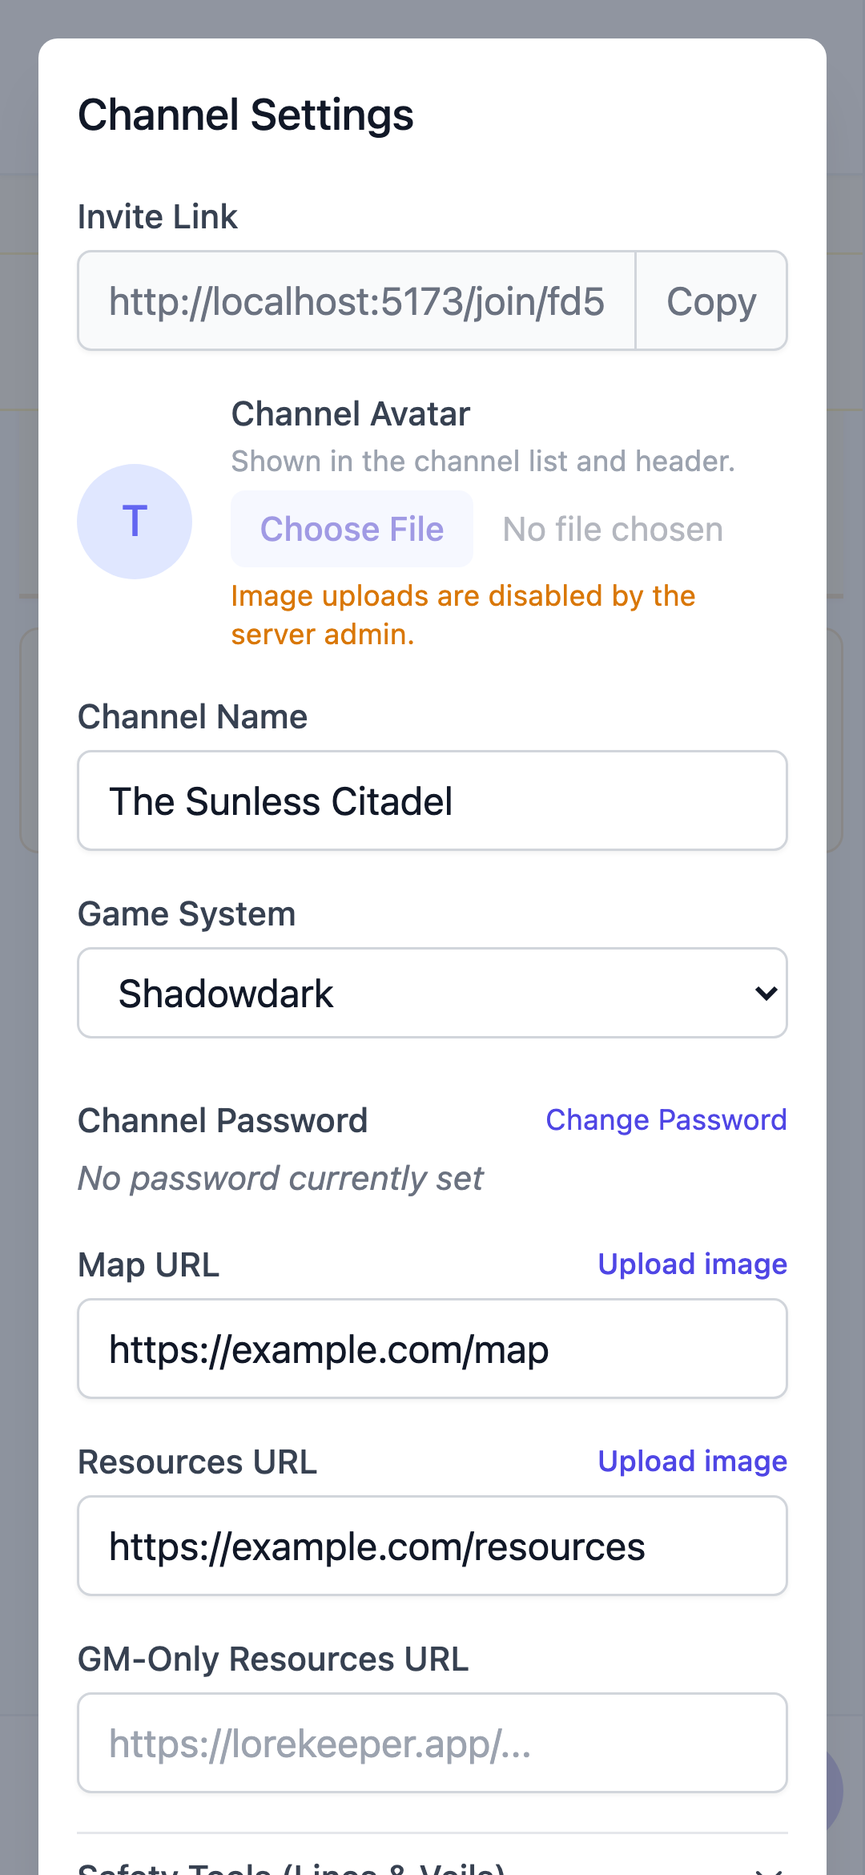
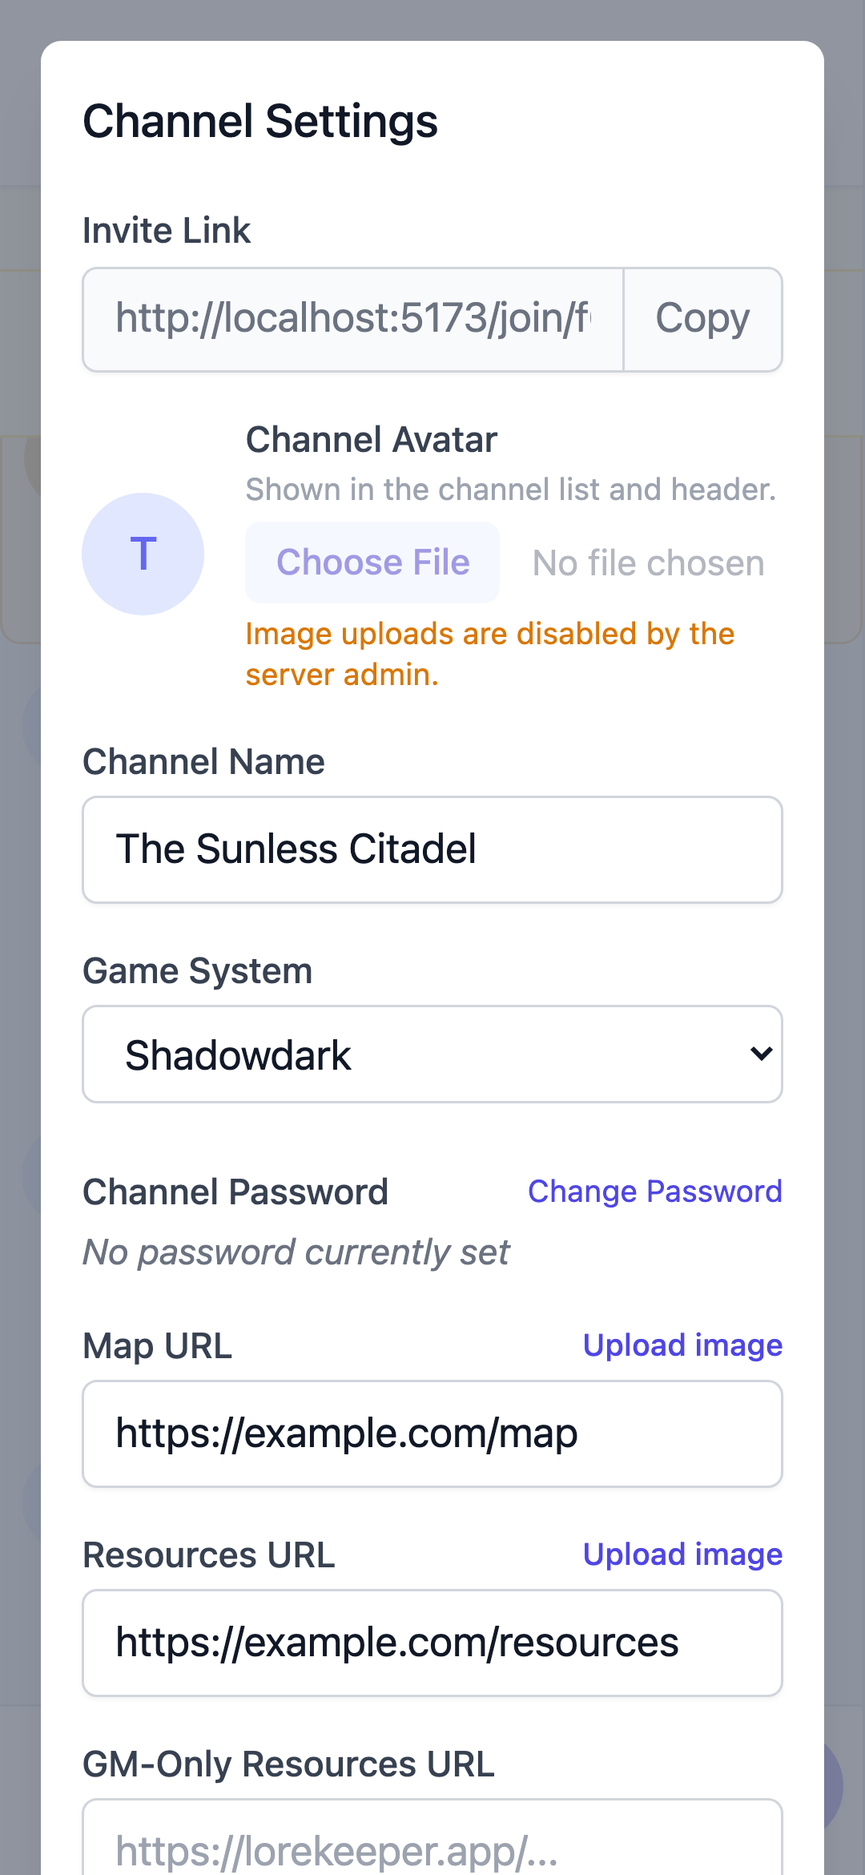
feat(#523): legible default text, remove text-size setting (#525)
* feat(#523): legible default text, remove text-size setting

* docs(#523): add component docstrings for review coverage

diff --git a/src/features/chat/MessageItem.tsx b/src/features/chat/MessageItem.tsx
@@ -167,6 +167,11 @@ function CheckSheet({ draft, gameSystem, onModifierChange, onAdvDisChange, onEdi
   )
 }
 
+/**
+ * One chat row: avatar, sender name, timestamp, markdown body, reactions,
+ * and hover/tap actions. Renders regular, scene, NPC, dice-roll, and system
+ * variants. Memoized — re-renders only when this message's own props change.
+ */
 export const MessageItem = memo(function MessageItem({ message, currentUserId, isGM, onEdit, onDelete, onRollDice, isHighlighted, members, gameSystem = 'none', reactions, onToggleReaction, onReply, onJumpToMessage, onRetry, onRemovePending, onEditCharacter, onReport }: MessageItemProps) {
   const [isEditing, setIsEditing] = useState(false)
   const [editContent, setEditContent] = useState(message.content)
@@ -690,17 +695,17 @@ img: ({ node: _node, src, alt, ...props }: React.ComponentProps<'img'> & { node?
               {senderName} rolled dice
             </span>
             {message.roll_dc != null && (
-              <span className="inline-flex items-center px-2 py-0.5 rounded-full text-[10px] font-bold uppercase bg-amber-100 dark:bg-amber-900 text-amber-800 dark:text-amber-300">
+              <span className="inline-flex items-center px-2 py-0.5 rounded-full text-[0.625rem] font-bold uppercase bg-amber-100 dark:bg-amber-900 text-amber-800 dark:text-amber-300">
                 DC {message.roll_dc}
               </span>
             )}
             {typeof message.roll_success === 'boolean' && (
-              <span className={`inline-flex items-center px-2 py-0.5 rounded-full text-[10px] font-bold uppercase ${isSuccess ? 'bg-green-100 dark:bg-green-900 text-green-800 dark:text-green-300' : 'bg-red-100 dark:bg-red-900 text-red-800 dark:text-red-300'}`}>
+              <span className={`inline-flex items-center px-2 py-0.5 rounded-full text-[0.625rem] font-bold uppercase ${isSuccess ? 'bg-green-100 dark:bg-green-900 text-green-800 dark:text-green-300' : 'bg-red-100 dark:bg-red-900 text-red-800 dark:text-red-300'}`}>
                 {isSuccess ? 'Success' : 'Failure'}
               </span>
             )}
           </div>
-          <div className="text-surface-900 dark:text-surface-100 text-sm">
+          <div className="text-surface-900 dark:text-surface-100 text-base">
             <Markdown>{message.content}</Markdown>
           </div>
           {errorOverlay}
@@ -710,7 +715,7 @@ img: ({ node: _node, src, alt, ...props }: React.ComponentProps<'img'> & { node?
   }
 
   return (
-    <div ref={itemRef} className={`relative group flex items-start space-x-3 my-1 px-4 py-2 transition-all duration-1000 ${isWhisper ? 'bg-purple-50 dark:bg-purple-950 rounded-lg border border-purple-100 dark:border-purple-900' : ''} ${isNpc ? 'bg-parchment dark:bg-parchment-dark rounded-lg border border-parchment-border dark:border-parchment-border-dark' : ''} ${isHighlighted ? 'bg-yellow-50 dark:bg-yellow-950 ring-2 ring-yellow-400 rounded-lg' : ''} ${message.pending ? 'opacity-60' : ''}`}>
+    <div ref={itemRef} className={`relative group flex items-start space-x-3 my-1 px-2 py-2 sm:px-3 transition-all duration-1000 ${isWhisper ? 'bg-purple-50 dark:bg-purple-950 rounded-lg border border-purple-100 dark:border-purple-900' : ''} ${isNpc ? 'bg-parchment dark:bg-parchment-dark rounded-lg border border-parchment-border dark:border-parchment-border-dark' : ''} ${isHighlighted ? 'bg-yellow-50 dark:bg-yellow-950 ring-2 ring-yellow-400 rounded-lg' : ''} ${message.pending ? 'opacity-60' : ''}`}>
       {pendingOverlay}
       <div className="flex-shrink-0">
         {isNpc ? (
@@ -750,7 +755,7 @@ img: ({ node: _node, src, alt, ...props }: React.ComponentProps<'img'> & { node?
 
         {replyBlock}
 
-        <div className={`mt-1 text-sm text-surface-800 dark:text-surface-200 prose prose-sm prose-indigo dark:prose-invert max-w-none break-words ${isNpc ? 'font-serif text-parchment-ink dark:text-parchment-ink-dark prose-p:text-parchment-ink dark:prose-p:text-parchment-ink-dark prose-a:text-parchment-ink-strong dark:prose-a:text-parchment-ink-strong-dark prose-strong:text-parchment-ink-strong dark:prose-strong:text-parchment-ink-strong-dark' : ''}`}>
+        <div className={`mt-1 text-base text-surface-800 dark:text-surface-200 prose prose-sm prose-indigo dark:prose-invert max-w-none break-words ${isNpc ? 'font-serif text-parchment-ink dark:text-parchment-ink-dark prose-p:text-parchment-ink dark:prose-p:text-parchment-ink-dark prose-a:text-parchment-ink-strong dark:prose-a:text-parchment-ink-strong-dark prose-strong:text-parchment-ink-strong dark:prose-strong:text-parchment-ink-strong-dark' : ''}`}>
           {message.is_deleted ? (
             <span className="text-surface-400 dark:text-surface-400 italic">This message was deleted.</span>
           ) : isEditing ? (

diff --git a/src/features/auth/ProfileSettings.tsx b/src/features/auth/ProfileSettings.tsx
@@ -7,20 +7,17 @@ import { useAuth } from './useAuth'
 import { deleteAccount, updateDisplayName, updateEmailOptIn } from './authApi'
 import { usePushNotifications } from '../notifications/usePushNotifications'
 import { useToast } from '../../contexts/ToastContext'
-import { useTextSize, TEXT_SIZE_NORMAL, TEXT_SIZE_LARGE, TEXT_SIZE_XLARGE, type TextSize } from '../../hooks/useTextSize'
 import { buildUserDataExport, downloadJson } from './exportUserData'
 import { MAX_DISPLAY_NAME_LENGTH } from '../../constants'
 
-const TEXT_SIZE_OPTIONS: { value: TextSize; label: string }[] = [
-  { value: TEXT_SIZE_NORMAL, label: 'Normal' },
-  { value: TEXT_SIZE_LARGE, label: 'Large' },
-  { value: TEXT_SIZE_XLARGE, label: 'Extra large' },
-]
-
+/**
+ * Account settings page: display name, notification preferences, data
+ * export, and account deletion. Text sizing follows the device default —
+ * there is intentionally no in-app text-size control (#523).
+ */
 export function ProfileSettings() {
   const { user, profile, signOut, refreshProfile } = useAuth()
   const { addToast } = useToast()
-  const { textSize, setSize } = useTextSize()
   const [displayName, setDisplayName] = useState(profile?.display_name || '')
   const [isSaving, setIsSaving] = useState(false)
   const [isExporting, setIsExporting] = useState(false)
@@ -230,35 +227,6 @@ export function ProfileSettings() {
               </button>
             </div>
           </form>
-        </div>
-      </div>
-
-      <div>
-        <h3 className="text-xl font-bold text-surface-900 dark:text-surface-100 mb-4">Appearance</h3>
-        <div className="bg-white dark:bg-surface-800 shadow rounded-lg p-6">
-          <div>
-            <h4 className="text-sm font-medium text-surface-900 dark:text-surface-100">Text size</h4>
-            <p className="text-sm text-surface-500 dark:text-surface-400 mt-1">
-              Controls the size of all app text. Pick the size that reads most comfortably for you.
-            </p>
-          </div>
-          <div className="mt-4 flex flex-wrap items-center space-x-2" role="group" aria-label="Text size">
-            {TEXT_SIZE_OPTIONS.map(({ value, label }) => (
-              <button
-                key={value}
-                type="button"
-                onClick={() => setSize(value)}
-                aria-pressed={textSize === value}
-                className={`inline-flex justify-center rounded-md border py-2 px-4 text-sm font-medium whitespace-nowrap transition-colors focus:outline-none focus:ring-2 focus:ring-primary-500 focus:ring-offset-2 ${
-                  textSize === value
-                    ? 'border-transparent bg-primary-600 text-white shadow-sm hover:bg-primary-700'
-                    : 'border-surface-300 dark:border-surface-600 bg-white dark:bg-surface-800 text-surface-700 dark:text-surface-300 shadow-sm hover:bg-surface-50 dark:hover:bg-surface-700'
-                }`}
-              >
-                {label}
-              </button>
-            ))}
-          </div>
         </div>
       </div>
 

diff --git a/src/features/channels/Lobby.tsx b/src/features/channels/Lobby.tsx
@@ -53,6 +53,11 @@ function channelPreview(preview?: string | null): string {
     .trim()
 }
 
+/**
+ * Home channel list: one row per channel with avatar, name, last-message
+ * preview, timestamp, and unread pill, plus create-channel and invite-link
+ * entry points. Search filtering comes from the `?q=` URL param.
+ */
 export function Lobby() {
   const { myChannels, loading, error, refetch } = useChannels()
   const [isCreateModalOpen, setIsCreateModalOpen] = useState(false)
@@ -183,7 +188,7 @@ export function Lobby() {
               {filteredMy.map((channel) => (
                 <li key={channel.id}>
                   <Link to={`/channel/${channel.id}`} className="block hover:bg-surface-50 dark:hover:bg-surface-700 transition-colors">
-                    <div className="flex items-center px-4 py-3 sm:px-6">
+                    <div className="flex items-center px-3 py-3 sm:px-6">
                       {channel.avatar_url ? (
                         <SignedImg
                           src={channel.avatar_url}
@@ -200,11 +205,11 @@ export function Lobby() {
                       <div className="flex-1 min-w-0 ml-3 flex flex-col justify-center">
                         <div className="flex items-center justify-between gap-2">
                           <span className="flex items-center gap-2 min-w-0">
-                            <span className="text-sm font-medium text-primary-600 dark:text-primary-400 truncate">
+                            <span className="text-base font-medium text-primary-600 dark:text-primary-400 truncate">
                               {channel.name}
                             </span>
                             {channel.gm_id === user?.id && (
-                              <span className="inline-flex flex-shrink-0 items-center px-1.5 py-0.5 rounded text-[10px] leading-4 font-semibold uppercase bg-amber-100 dark:bg-amber-900 text-amber-800 dark:text-amber-300">
+                              <span className="inline-flex flex-shrink-0 items-center px-1.5 py-0.5 rounded text-[0.625rem] leading-4 font-semibold uppercase bg-amber-100 dark:bg-amber-900 text-amber-800 dark:text-amber-300">
                                 GM
                               </span>
                             )}
@@ -214,7 +219,7 @@ export function Lobby() {
                           </span>
                         </div>
                         <div className="flex items-center justify-between gap-2">
-                          <span className="text-[15px] text-surface-500 dark:text-surface-400 truncate">
+                          <span className="text-sm text-surface-500 dark:text-surface-400 truncate">
                             {channelPreview(channel.last_message_preview)}
                           </span>
                           {preferences?.badge_enabled !== false && channel.unread_count && channel.unread_count > 0 ? (

diff --git a/src/features/chat/MessageList.tsx b/src/features/chat/MessageList.tsx
@@ -50,6 +50,11 @@ interface MessageListProps {
   onLoadOlder?: () => void
 }
 
+/**
+ * Scrollable message history: date dividers, unread divider, and one
+ * MessageItem per message. Pins to the bottom on new arrivals and preserves
+ * scroll position when older history prepends.
+ */
 export function MessageList({ messages, isGM, onEdit, onDelete, onRollDice, highlightMessageId, members = [], gameSystem = 'none', reactionsByMessage, onToggleReaction, onReply, onJumpToMessage, lastReadAt, boundaryRevision, onRetry, onRemovePending, onRetryLoad, onEditCharacter, onReport, error, hasMore, loadingOlder, onLoadOlder }: MessageListProps) {
   const { user } = useAuth()
   const listRef = useRef<HTMLDivElement>(null)
@@ -431,7 +436,7 @@ export function MessageList({ messages, isGM, onEdit, onDelete, onRollDice, high
       role="log"
       aria-live="polite"
       tabIndex={0}
-      className="flex-1 overflow-y-auto overflow-x-hidden px-2 py-1 space-y-2"
+      className="flex-1 overflow-y-auto overflow-x-hidden px-0 py-1 space-y-2"
     >
       <div ref={contentRef}>
       {hasMore && (
@@ -460,7 +465,7 @@ export function MessageList({ messages, isGM, onEdit, onDelete, onRollDice, high
         return (
           <Fragment key={message.id}>
             {showDivider && (
-              <div data-testid="date-divider" className="flex items-center my-3 -mx-2">
+              <div data-testid="date-divider" className="flex items-center my-3">
                 <div className="flex-grow border-t border-surface-300 dark:border-surface-600"></div>
                 <span className="flex-shrink-0 mx-4 text-xs font-semibold text-surface-500 dark:text-surface-400 uppercase tracking-wider">
                   {currentDate}
@@ -469,7 +474,7 @@ export function MessageList({ messages, isGM, onEdit, onDelete, onRollDice, high
               </div>
             )}
             {showNewDivider && (
-              <div ref={newMessagesDividerRef} data-testid="new-messages-divider" className="flex items-center my-3 -mx-2">
+              <div ref={newMessagesDividerRef} data-testid="new-messages-divider" className="flex items-center my-3">
                 <div className="flex-grow border-t-2 border-red-400 dark:border-red-500"></div>
                 <span className="flex-shrink-0 mx-4 text-xs font-semibold text-red-500 dark:text-red-400 uppercase tracking-wider">
                   New messages

diff --git a/src/features/auth/ProfileSettings.test.tsx b/src/features/auth/ProfileSettings.test.tsx
@@ -45,7 +45,6 @@ describe('ProfileSettings', () => {
   beforeEach(() => {
     vi.clearAllMocks()
     window.localStorage.clear()
-    document.documentElement.removeAttribute('data-text-size')
 
     vi.mocked(usePushNotifications).mockReturnValue({
       isConfigured: true, isSupported: true, needsInstall: false,
@@ -105,41 +104,6 @@ describe('ProfileSettings', () => {
     expect(screen.getByLabelText('Display Name')).toHaveAttribute('maxLength', '40')
     expect(screen.getByDisplayValue('user@example.com')).toBeDisabled()
     expect(screen.getByRole('img', { name: 'Avatar' })).toHaveAttribute('src', 'https://example.com/avatar.jpg')
-  })
-
-  it('shows a text size control and applies the chosen size to the document', () => {
-    vi.mocked(useAuth).mockReturnValue({
-      loading: false,
-      error: null,
-      user: { id: '123' } as any,
-      profile: { id: '123', display_name: 'Test Player', avatar_url: null, created_at: '', is_suspended: false, email_opt_in: false, email_opt_in_at: null },
-      session: null,
-      signInWithGoogle: vi.fn(),
-      signOut: vi.fn(),
-      refreshProfile: vi.fn(),
-    })
-
-    renderWithRouter(<ProfileSettings />)
-
-    const group = screen.getByRole('group', { name: 'Text size' })
-    expect(group).toBeInTheDocument()
-
-    // Alignment regression (#382): the row must center its buttons and the
-    // labels must not wrap — "Extra large" wrapping raised the button height
-    // and pushed the other labels to the top.
-    expect(group).toHaveClass('items-center')
-    for (const label of ['Normal', 'Large', 'Extra large']) {
-      expect(screen.getByRole('button', { name: label })).toHaveClass('whitespace-nowrap')
-    }
-
-    const normal = screen.getByRole('button', { name: 'Normal' })
-    expect(normal).toHaveAttribute('aria-pressed', 'true')
-
-    fireEvent.click(screen.getByRole('button', { name: 'Extra large' }))
-    expect(document.documentElement.getAttribute('data-text-size')).toBe('xlarge')
-    expect(window.localStorage.getItem('rolebypost-text-size')).toBe('xlarge')
-    expect(screen.getByRole('button', { name: 'Extra large' })).toHaveAttribute('aria-pressed', 'true')
-    expect(screen.getByRole('button', { name: 'Normal' })).toHaveAttribute('aria-pressed', 'false')
   })
 
   it('updates display name on submit and shows success message', async () => {

diff --git a/src/features/channels/MemberList.tsx b/src/features/channels/MemberList.tsx
@@ -28,6 +28,10 @@ interface MemberListProps {
   onEditMember: (memberId: string | null) => void
 }
 
+/**
+ * Sidebar member roster: players and GMs with character names, active/
+ * away status, and GM moderation actions (kick, block, edit character).
+ */
 export function MemberList({ members, isGM, gmId, myUserId, gameSystem = 'none', channelId, onUpdate, editingMemberId, onEditMember }: MemberListProps) {
   const navigate = useNavigate()
   const [openMenuId, setOpenMenuId] = useState<string | null>(null)
@@ -174,17 +178,17 @@ export function MemberList({ members, isGM, gmId, myUserId, gameSystem = 'none',
                           {member.character_name}
                         </p>
                         {member.is_away && (
-                          <span className="inline-flex items-center px-1.5 py-0.5 rounded text-[10px] font-bold bg-surface-200 dark:bg-surface-700 text-surface-600 dark:text-surface-400 uppercase">
+                          <span className="inline-flex items-center px-1.5 py-0.5 rounded text-[0.625rem] font-bold bg-surface-200 dark:bg-surface-700 text-surface-600 dark:text-surface-400 uppercase">
                             AFK
                           </span>
                         )}
                         {member.is_active_player && (
-                          <span className="inline-flex items-center px-1.5 py-0.5 rounded text-[10px] font-bold bg-primary-100 dark:bg-primary-900 text-primary-800 dark:text-primary-200 uppercase">
+                          <span className="inline-flex items-center px-1.5 py-0.5 rounded text-[0.625rem] font-bold bg-primary-100 dark:bg-primary-900 text-primary-800 dark:text-primary-200 uppercase">
                             Active
                           </span>
                         )}
                         {member.user_id === gmId && (
-                          <span className="inline-flex items-center px-1.5 py-0.5 rounded text-[10px] font-medium bg-amber-100 dark:bg-amber-900 text-amber-800 dark:text-amber-300">
+                          <span className="inline-flex items-center px-1.5 py-0.5 rounded text-[0.625rem] font-medium bg-amber-100 dark:bg-amber-900 text-amber-800 dark:text-amber-300">
                             GM
                           </span>
                         )}

diff --git a/src/features/dice/RollHistoryModal.tsx b/src/features/dice/RollHistoryModal.tsx
@@ -26,6 +26,10 @@ interface RollHistoryModalProps {
   onClose: () => void
 }
 
+/**
+ * Channel dice-roll history modal: every roll in the channel with roller,
+ * notation, result, and success/failure highlight, newest first.
+ */
 export function RollHistoryModal({ channelId, onClose }: RollHistoryModalProps) {
   const dialogRef = useRef<HTMLDivElement>(null)
   useEscapeToClose(onClose)
@@ -81,7 +85,7 @@ export function RollHistoryModal({ channelId, onClose }: RollHistoryModalProps) 
                           <div className="text-xs font-semibold text-gray-500 dark:text-gray-400 uppercase tracking-wider mb-1">Result</div>
                           <div className="text-2xl font-bold text-gray-900 dark:text-gray-100">{roll.result}</div>
                           {crit && (
-                            <div className={`mt-1 inline-flex items-center px-2 py-0.5 rounded-full text-[10px] font-bold uppercase ${crit === 'success' ? 'bg-green-100 dark:bg-green-900 text-green-800 dark:text-green-300' : 'bg-red-100 dark:bg-red-900 text-red-800 dark:text-red-300'}`}>
+                            <div className={`mt-1 inline-flex items-center px-2 py-0.5 rounded-full text-[0.625rem] font-bold uppercase ${crit === 'success' ? 'bg-green-100 dark:bg-green-900 text-green-800 dark:text-green-300' : 'bg-red-100 dark:bg-red-900 text-red-800 dark:text-red-300'}`}>
                               {crit === 'success' ? 'Critical Success' : 'Critical Failure'}
                             </div>
                           )}

diff --git a/src/features/admin-messages/ThreadList.tsx b/src/features/admin-messages/ThreadList.tsx
@@ -6,6 +6,10 @@ import { Avatar } from '../../components/Avatar'
 import { useIsServerAdmin } from '../../hooks/useIsServerAdmin'
 import { useToast } from '../../contexts/ToastContext'
 
+/**
+ * Server-admin inbox sidebar: message threads with unread state, plus the
+ * new-thread composer for server admins.
+ */
 export function ThreadList({ selectedThreadId, onSelectThread }: { selectedThreadId?: string, onSelectThread: (t: Thread) => void }) {
   const { threads, loading, hasMore, loadMore, refetch, error, createThread } = useAdminThreads()
   const { isServerAdmin } = useIsServerAdmin()
@@ -83,7 +87,7 @@ export function ThreadList({ selectedThreadId, onSelectThread }: { selectedThrea
                   <div className="flex items-center gap-2">
                     {thread.type === 'announcement' && (
                       <span
-                        className="shrink-0 inline-flex items-center px-1.5 py-0.5 rounded text-[11px] font-medium bg-blue-50 dark:bg-blue-900/40 text-blue-700 dark:text-blue-300"
+                        className="shrink-0 inline-flex items-center px-1.5 py-0.5 rounded text-[0.6875rem] font-medium bg-blue-50 dark:bg-blue-900/40 text-blue-700 dark:text-blue-300"
                       >
                         {thread.audience === 'all_users' ? 'All users' : 'GMs'}
                       </span>

diff --git a/src/features/channels/Lobby.test.tsx b/src/features/channels/Lobby.test.tsx
@@ -261,7 +261,7 @@ describe('Lobby', () => {
     expect(pill).toHaveClass('bg-red-600')
   })
 
-  it('renders the sender-prefixed preview as plain text at the larger size', () => {
+  it('renders the channel name larger than the message preview (#523)', () => {
     vi.mocked(useChannels).mockReturnValue({
       myChannels: [
         { id: '1', name: 'Talk', last_message_preview: 'Hero: *waves*', unread_count: 0 } as any,
@@ -273,7 +273,8 @@ describe('Lobby', () => {
 
     render(<Lobby />, { wrapper: MemoryRouter })
     const preview = screen.getByText('Hero: waves')
-    expect(preview).toHaveClass('text-[15px]')
+    expect(preview).toHaveClass('text-sm')
+    expect(screen.getByText('Talk')).toHaveClass('text-base')
   })
 
   it('shows a short timestamp and a stripped message preview per channel', () => {

diff --git a/src/index.css b/src/index.css
@@ -3,10 +3,11 @@
 @tailwind utilities;
 
 @layer base {
-  /* Text-size setting (see useTextSize). Scales the whole app's base font,
-     like a browser zoom, so every rem-based Tailwind size follows. */
-  html[data-text-size='large'] { font-size: 1.125rem; }
-  html[data-text-size='xlarge'] { font-size: 1.25rem; }
+  /* Base type scale: 17px (106.25% of the 16px browser default). Every
+     rem-based Tailwind size and spacing follows it, so the app reads closer
+     to a native messaging app. Users who need more rely on OS/browser text
+     scaling, which this relative base respects. */
+  html { font-size: 106.25%; }
 
   body {
     @apply bg-gray-50 text-gray-900 dark:bg-gray-900 dark:text-gray-100;

diff --git a/src/features/chat/MessageItem.test.tsx b/src/features/chat/MessageItem.test.tsx
@@ -164,9 +164,9 @@ describe('MessageItem', () => {
     }
     render(<MessageItem message={msg} currentUserId="u1" isGM={false} onEdit={vi.fn()} onDelete={vi.fn()} />)
     // The dice card wrapper must use the normal message text scale, not a
-    // larger one (regression #500).
+    // larger one (regression #500). Base message scale is text-base (#523).
     const content = screen.getByText('15').closest('div')
-    expect(content?.className).toContain('text-sm')
+    expect(content?.className).toContain('text-base')
     expect(content?.className).not.toContain('text-lg')
   })
 

diff --git a/src/main.tsx b/src/main.tsx
@@ -8,15 +8,10 @@ import App from './App.tsx'
 import { ErrorBoundary } from './components/ErrorBoundary'
 import { initAnalytics } from './lib/analytics'
 import { initSentry } from './lib/sentry'
-import { applyStoredTextSize } from './hooks/useTextSize'
 
 void initSentry()
 
 initAnalytics()
-
-// Restore the persisted text size before first paint so it doesn't flash back
-// to normal on every full page load (see useTextSize).
-applyStoredTextSize()
 
 createRoot(document.getElementById('root')!).render(
   <StrictMode>
